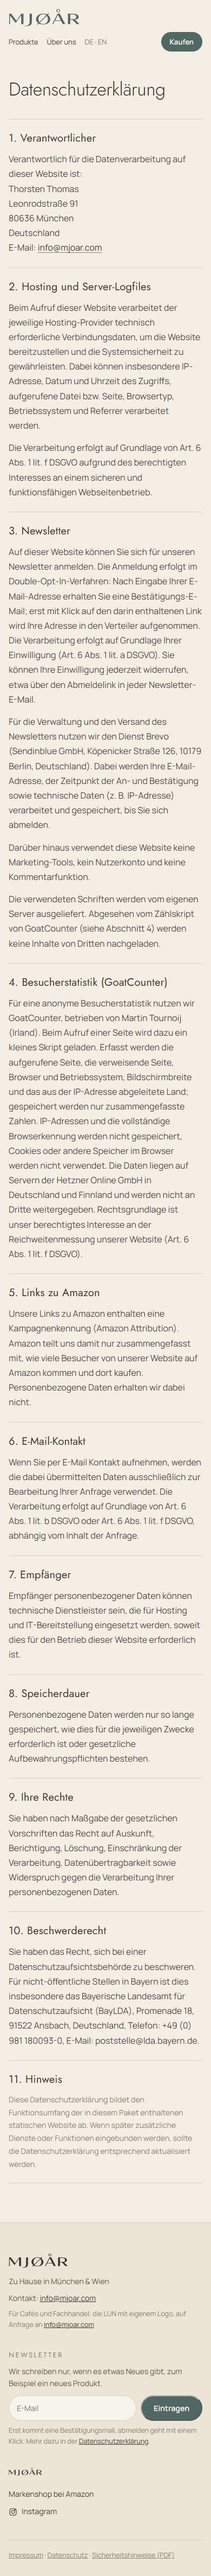
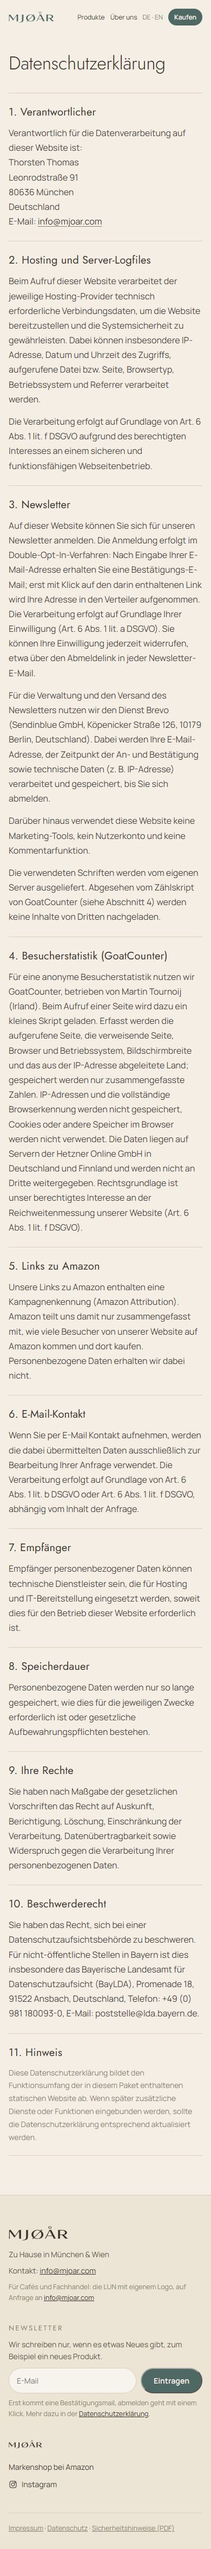
EN-Vorlage und Rechtsseiten auf main nachgezogen (#32/#33)
Rebase auf origin/main: Hero-Überblendung 5 % und einzeiliger Handy-Kopf
gelten jetzt auch für /en/ und die Rechtsseiten (Stil aus der DE-Vorlage).
Screenshots neu gerendert.

diff --git a/_build/vorlagen/startseite-en.html b/_build/vorlagen/startseite-en.html
@@ -39,7 +39,7 @@ header nav .sprache{color:var(--taupe)}
 .hero video,.hero img.poster{position:absolute;inset:0;width:100%;height:100%;object-fit:cover;object-position:60% 50%}
 .hero::after{content:"";position:absolute;inset:0;background:linear-gradient(90deg,rgba(244,238,229,.62) 0%,rgba(244,238,229,.3) 42%,rgba(244,238,229,.05) 100%)}
 /* weicher Übergang Startbild -> Seite: unten in denselben Ton auslaufen lassen, den die Abschnitte darunter haben */
-.hero::before{content:"";position:absolute;left:0;right:0;bottom:0;height:32%;z-index:1;pointer-events:none;background:linear-gradient(180deg,rgba(244,238,229,0) 0%,rgba(244,238,229,.6) 50%,rgba(244,238,229,.96) 100%)}
+.hero::before{content:"";position:absolute;left:0;right:0;bottom:0;height:5%;z-index:1;pointer-events:none;background:linear-gradient(180deg,rgba(244,238,229,0) 0%,rgba(244,238,229,.55) 55%,rgba(244,238,229,.96) 100%)}
 .hero .txt{z-index:2}
 .hero .txt{position:relative;z-index:1;display:grid;gap:22px;padding-block:120px 160px}
 .eyebrow{font-family:var(--display);font-size:12px;letter-spacing:.22em;text-transform:uppercase;color:var(--taupe)}
@@ -177,7 +177,7 @@ svg.logo-text{display:inline-block;height:1.24em;width:auto;color:currentColor;v
 @media (max-width:760px){.lun .in{grid-template-columns:minmax(0,1fr)}}
 @media (max-width:900px){.reihe{grid-template-columns:minmax(0,1fr);gap:18px}}
 @media (max-width:760px){.kollektion .kopf{grid-template-columns:minmax(0,1fr)}.kollektion .kopf p{justify-self:start}.stuecke{grid-template-columns:repeat(2,minmax(0,1fr))}}
-@media (max-width:760px){header .in{flex-wrap:wrap;row-gap:10px;padding-block:16px}header nav{width:100%;gap:16px;font-size:13px}header nav .knopf{margin-left:auto}.hero .txt{padding-block:150px 140px}.hero video{object-position:72% 50%}}
+@media (max-width:760px){header .in{gap:12px;padding-block:16px}header .kopf-logo svg,header svg{width:84px}header nav{gap:10px;font-size:12px}header nav .knopf.klein{padding:7px 11px;font-size:12px}.hero .txt{padding-block:110px 140px}.hero video{object-position:72% 50%}}
 @media (prefers-reduced-motion: reduce){.hero video,.schattenlage video{display:none}}
 /* Seitenbau: ohne Browser-Standardrand (Startbild randlos wie in der Vorschau), Logo im Kopf verlinkt */
 html,body{margin:0}

diff --git a/de/datenschutz/index.html b/de/datenschutz/index.html
@@ -51,7 +51,7 @@ header nav .sprache{color:var(--taupe)}
 .hero video,.hero img.poster{position:absolute;inset:0;width:100%;height:100%;object-fit:cover;object-position:60% 50%}
 .hero::after{content:"";position:absolute;inset:0;background:linear-gradient(90deg,rgba(244,238,229,.62) 0%,rgba(244,238,229,.3) 42%,rgba(244,238,229,.05) 100%)}
 /* weicher Übergang Startbild -> Seite: unten in denselben Ton auslaufen lassen, den die Abschnitte darunter haben */
-.hero::before{content:"";position:absolute;left:0;right:0;bottom:0;height:32%;z-index:1;pointer-events:none;background:linear-gradient(180deg,rgba(244,238,229,0) 0%,rgba(244,238,229,.6) 50%,rgba(244,238,229,.96) 100%)}
+.hero::before{content:"";position:absolute;left:0;right:0;bottom:0;height:5%;z-index:1;pointer-events:none;background:linear-gradient(180deg,rgba(244,238,229,0) 0%,rgba(244,238,229,.55) 55%,rgba(244,238,229,.96) 100%)}
 .hero .txt{z-index:2}
 .hero .txt{position:relative;z-index:1;display:grid;gap:22px;padding-block:120px 160px}
 .eyebrow{font-family:var(--display);font-size:12px;letter-spacing:.22em;text-transform:uppercase;color:var(--taupe)}
@@ -189,7 +189,7 @@ svg.logo-text{display:inline-block;height:1.24em;width:auto;color:currentColor;v
 @media (max-width:760px){.lun .in{grid-template-columns:minmax(0,1fr)}}
 @media (max-width:900px){.reihe{grid-template-columns:minmax(0,1fr);gap:18px}}
 @media (max-width:760px){.kollektion .kopf{grid-template-columns:minmax(0,1fr)}.kollektion .kopf p{justify-self:start}.stuecke{grid-template-columns:repeat(2,minmax(0,1fr))}}
-@media (max-width:760px){header .in{flex-wrap:wrap;row-gap:10px;padding-block:16px}header nav{width:100%;gap:16px;font-size:13px}header nav .knopf{margin-left:auto}.hero .txt{padding-block:150px 140px}.hero video{object-position:72% 50%}}
+@media (max-width:760px){header .in{gap:12px;padding-block:16px}header .kopf-logo svg,header svg{width:84px}header nav{gap:10px;font-size:12px}header nav .knopf.klein{padding:7px 11px;font-size:12px}.hero .txt{padding-block:110px 140px}.hero video{object-position:72% 50%}}
 @media (prefers-reduced-motion: reduce){.hero video,.schattenlage video{display:none}}
 /* Seitenbau: ohne Browser-Standardrand (Startbild randlos wie in der Vorschau), Logo im Kopf verlinkt */
 html,body{margin:0}

diff --git a/de/impressum/index.html b/de/impressum/index.html
@@ -51,7 +51,7 @@ header nav .sprache{color:var(--taupe)}
 .hero video,.hero img.poster{position:absolute;inset:0;width:100%;height:100%;object-fit:cover;object-position:60% 50%}
 .hero::after{content:"";position:absolute;inset:0;background:linear-gradient(90deg,rgba(244,238,229,.62) 0%,rgba(244,238,229,.3) 42%,rgba(244,238,229,.05) 100%)}
 /* weicher Übergang Startbild -> Seite: unten in denselben Ton auslaufen lassen, den die Abschnitte darunter haben */
-.hero::before{content:"";position:absolute;left:0;right:0;bottom:0;height:32%;z-index:1;pointer-events:none;background:linear-gradient(180deg,rgba(244,238,229,0) 0%,rgba(244,238,229,.6) 50%,rgba(244,238,229,.96) 100%)}
+.hero::before{content:"";position:absolute;left:0;right:0;bottom:0;height:5%;z-index:1;pointer-events:none;background:linear-gradient(180deg,rgba(244,238,229,0) 0%,rgba(244,238,229,.55) 55%,rgba(244,238,229,.96) 100%)}
 .hero .txt{z-index:2}
 .hero .txt{position:relative;z-index:1;display:grid;gap:22px;padding-block:120px 160px}
 .eyebrow{font-family:var(--display);font-size:12px;letter-spacing:.22em;text-transform:uppercase;color:var(--taupe)}
@@ -189,7 +189,7 @@ svg.logo-text{display:inline-block;height:1.24em;width:auto;color:currentColor;v
 @media (max-width:760px){.lun .in{grid-template-columns:minmax(0,1fr)}}
 @media (max-width:900px){.reihe{grid-template-columns:minmax(0,1fr);gap:18px}}
 @media (max-width:760px){.kollektion .kopf{grid-template-columns:minmax(0,1fr)}.kollektion .kopf p{justify-self:start}.stuecke{grid-template-columns:repeat(2,minmax(0,1fr))}}
-@media (max-width:760px){header .in{flex-wrap:wrap;row-gap:10px;padding-block:16px}header nav{width:100%;gap:16px;font-size:13px}header nav .knopf{margin-left:auto}.hero .txt{padding-block:150px 140px}.hero video{object-position:72% 50%}}
+@media (max-width:760px){header .in{gap:12px;padding-block:16px}header .kopf-logo svg,header svg{width:84px}header nav{gap:10px;font-size:12px}header nav .knopf.klein{padding:7px 11px;font-size:12px}.hero .txt{padding-block:110px 140px}.hero video{object-position:72% 50%}}
 @media (prefers-reduced-motion: reduce){.hero video,.schattenlage video{display:none}}
 /* Seitenbau: ohne Browser-Standardrand (Startbild randlos wie in der Vorschau), Logo im Kopf verlinkt */
 html,body{margin:0}

diff --git a/en/imprint/index.html b/en/imprint/index.html
@@ -51,7 +51,7 @@ header nav .sprache{color:var(--taupe)}
 .hero video,.hero img.poster{position:absolute;inset:0;width:100%;height:100%;object-fit:cover;object-position:60% 50%}
 .hero::after{content:"";position:absolute;inset:0;background:linear-gradient(90deg,rgba(244,238,229,.62) 0%,rgba(244,238,229,.3) 42%,rgba(244,238,229,.05) 100%)}
 /* weicher Übergang Startbild -> Seite: unten in denselben Ton auslaufen lassen, den die Abschnitte darunter haben */
-.hero::before{content:"";position:absolute;left:0;right:0;bottom:0;height:32%;z-index:1;pointer-events:none;background:linear-gradient(180deg,rgba(244,238,229,0) 0%,rgba(244,238,229,.6) 50%,rgba(244,238,229,.96) 100%)}
+.hero::before{content:"";position:absolute;left:0;right:0;bottom:0;height:5%;z-index:1;pointer-events:none;background:linear-gradient(180deg,rgba(244,238,229,0) 0%,rgba(244,238,229,.55) 55%,rgba(244,238,229,.96) 100%)}
 .hero .txt{z-index:2}
 .hero .txt{position:relative;z-index:1;display:grid;gap:22px;padding-block:120px 160px}
 .eyebrow{font-family:var(--display);font-size:12px;letter-spacing:.22em;text-transform:uppercase;color:var(--taupe)}
@@ -189,7 +189,7 @@ svg.logo-text{display:inline-block;height:1.24em;width:auto;color:currentColor;v
 @media (max-width:760px){.lun .in{grid-template-columns:minmax(0,1fr)}}
 @media (max-width:900px){.reihe{grid-template-columns:minmax(0,1fr);gap:18px}}
 @media (max-width:760px){.kollektion .kopf{grid-template-columns:minmax(0,1fr)}.kollektion .kopf p{justify-self:start}.stuecke{grid-template-columns:repeat(2,minmax(0,1fr))}}
-@media (max-width:760px){header .in{flex-wrap:wrap;row-gap:10px;padding-block:16px}header nav{width:100%;gap:16px;font-size:13px}header nav .knopf{margin-left:auto}.hero .txt{padding-block:150px 140px}.hero video{object-position:72% 50%}}
+@media (max-width:760px){header .in{gap:12px;padding-block:16px}header .kopf-logo svg,header svg{width:84px}header nav{gap:10px;font-size:12px}header nav .knopf.klein{padding:7px 11px;font-size:12px}.hero .txt{padding-block:110px 140px}.hero video{object-position:72% 50%}}
 @media (prefers-reduced-motion: reduce){.hero video,.schattenlage video{display:none}}
 /* Seitenbau: ohne Browser-Standardrand (Startbild randlos wie in der Vorschau), Logo im Kopf verlinkt */
 html,body{margin:0}

diff --git a/en/index.html b/en/index.html
@@ -67,7 +67,7 @@ header nav .sprache{color:var(--taupe)}
 .hero video,.hero img.poster{position:absolute;inset:0;width:100%;height:100%;object-fit:cover;object-position:60% 50%}
 .hero::after{content:"";position:absolute;inset:0;background:linear-gradient(90deg,rgba(244,238,229,.62) 0%,rgba(244,238,229,.3) 42%,rgba(244,238,229,.05) 100%)}
 /* weicher Übergang Startbild -> Seite: unten in denselben Ton auslaufen lassen, den die Abschnitte darunter haben */
-.hero::before{content:"";position:absolute;left:0;right:0;bottom:0;height:32%;z-index:1;pointer-events:none;background:linear-gradient(180deg,rgba(244,238,229,0) 0%,rgba(244,238,229,.6) 50%,rgba(244,238,229,.96) 100%)}
+.hero::before{content:"";position:absolute;left:0;right:0;bottom:0;height:5%;z-index:1;pointer-events:none;background:linear-gradient(180deg,rgba(244,238,229,0) 0%,rgba(244,238,229,.55) 55%,rgba(244,238,229,.96) 100%)}
 .hero .txt{z-index:2}
 .hero .txt{position:relative;z-index:1;display:grid;gap:22px;padding-block:120px 160px}
 .eyebrow{font-family:var(--display);font-size:12px;letter-spacing:.22em;text-transform:uppercase;color:var(--taupe)}
@@ -205,7 +205,7 @@ svg.logo-text{display:inline-block;height:1.24em;width:auto;color:currentColor;v
 @media (max-width:760px){.lun .in{grid-template-columns:minmax(0,1fr)}}
 @media (max-width:900px){.reihe{grid-template-columns:minmax(0,1fr);gap:18px}}
 @media (max-width:760px){.kollektion .kopf{grid-template-columns:minmax(0,1fr)}.kollektion .kopf p{justify-self:start}.stuecke{grid-template-columns:repeat(2,minmax(0,1fr))}}
-@media (max-width:760px){header .in{flex-wrap:wrap;row-gap:10px;padding-block:16px}header nav{width:100%;gap:16px;font-size:13px}header nav .knopf{margin-left:auto}.hero .txt{padding-block:150px 140px}.hero video{object-position:72% 50%}}
+@media (max-width:760px){header .in{gap:12px;padding-block:16px}header .kopf-logo svg,header svg{width:84px}header nav{gap:10px;font-size:12px}header nav .knopf.klein{padding:7px 11px;font-size:12px}.hero .txt{padding-block:110px 140px}.hero video{object-position:72% 50%}}
 @media (prefers-reduced-motion: reduce){.hero video,.schattenlage video{display:none}}
 /* Seitenbau: ohne Browser-Standardrand (Startbild randlos wie in der Vorschau), Logo im Kopf verlinkt */
 html,body{margin:0}

diff --git a/en/privacy/index.html b/en/privacy/index.html
@@ -51,7 +51,7 @@ header nav .sprache{color:var(--taupe)}
 .hero video,.hero img.poster{position:absolute;inset:0;width:100%;height:100%;object-fit:cover;object-position:60% 50%}
 .hero::after{content:"";position:absolute;inset:0;background:linear-gradient(90deg,rgba(244,238,229,.62) 0%,rgba(244,238,229,.3) 42%,rgba(244,238,229,.05) 100%)}
 /* weicher Übergang Startbild -> Seite: unten in denselben Ton auslaufen lassen, den die Abschnitte darunter haben */
-.hero::before{content:"";position:absolute;left:0;right:0;bottom:0;height:32%;z-index:1;pointer-events:none;background:linear-gradient(180deg,rgba(244,238,229,0) 0%,rgba(244,238,229,.6) 50%,rgba(244,238,229,.96) 100%)}
+.hero::before{content:"";position:absolute;left:0;right:0;bottom:0;height:5%;z-index:1;pointer-events:none;background:linear-gradient(180deg,rgba(244,238,229,0) 0%,rgba(244,238,229,.55) 55%,rgba(244,238,229,.96) 100%)}
 .hero .txt{z-index:2}
 .hero .txt{position:relative;z-index:1;display:grid;gap:22px;padding-block:120px 160px}
 .eyebrow{font-family:var(--display);font-size:12px;letter-spacing:.22em;text-transform:uppercase;color:var(--taupe)}
@@ -189,7 +189,7 @@ svg.logo-text{display:inline-block;height:1.24em;width:auto;color:currentColor;v
 @media (max-width:760px){.lun .in{grid-template-columns:minmax(0,1fr)}}
 @media (max-width:900px){.reihe{grid-template-columns:minmax(0,1fr);gap:18px}}
 @media (max-width:760px){.kollektion .kopf{grid-template-columns:minmax(0,1fr)}.kollektion .kopf p{justify-self:start}.stuecke{grid-template-columns:repeat(2,minmax(0,1fr))}}
-@media (max-width:760px){header .in{flex-wrap:wrap;row-gap:10px;padding-block:16px}header nav{width:100%;gap:16px;font-size:13px}header nav .knopf{margin-left:auto}.hero .txt{padding-block:150px 140px}.hero video{object-position:72% 50%}}
+@media (max-width:760px){header .in{gap:12px;padding-block:16px}header .kopf-logo svg,header svg{width:84px}header nav{gap:10px;font-size:12px}header nav .knopf.klein{padding:7px 11px;font-size:12px}.hero .txt{padding-block:110px 140px}.hero video{object-position:72% 50%}}
 @media (prefers-reduced-motion: reduce){.hero video,.schattenlage video{display:none}}
 /* Seitenbau: ohne Browser-Standardrand (Startbild randlos wie in der Vorschau), Logo im Kopf verlinkt */
 html,body{margin:0}
